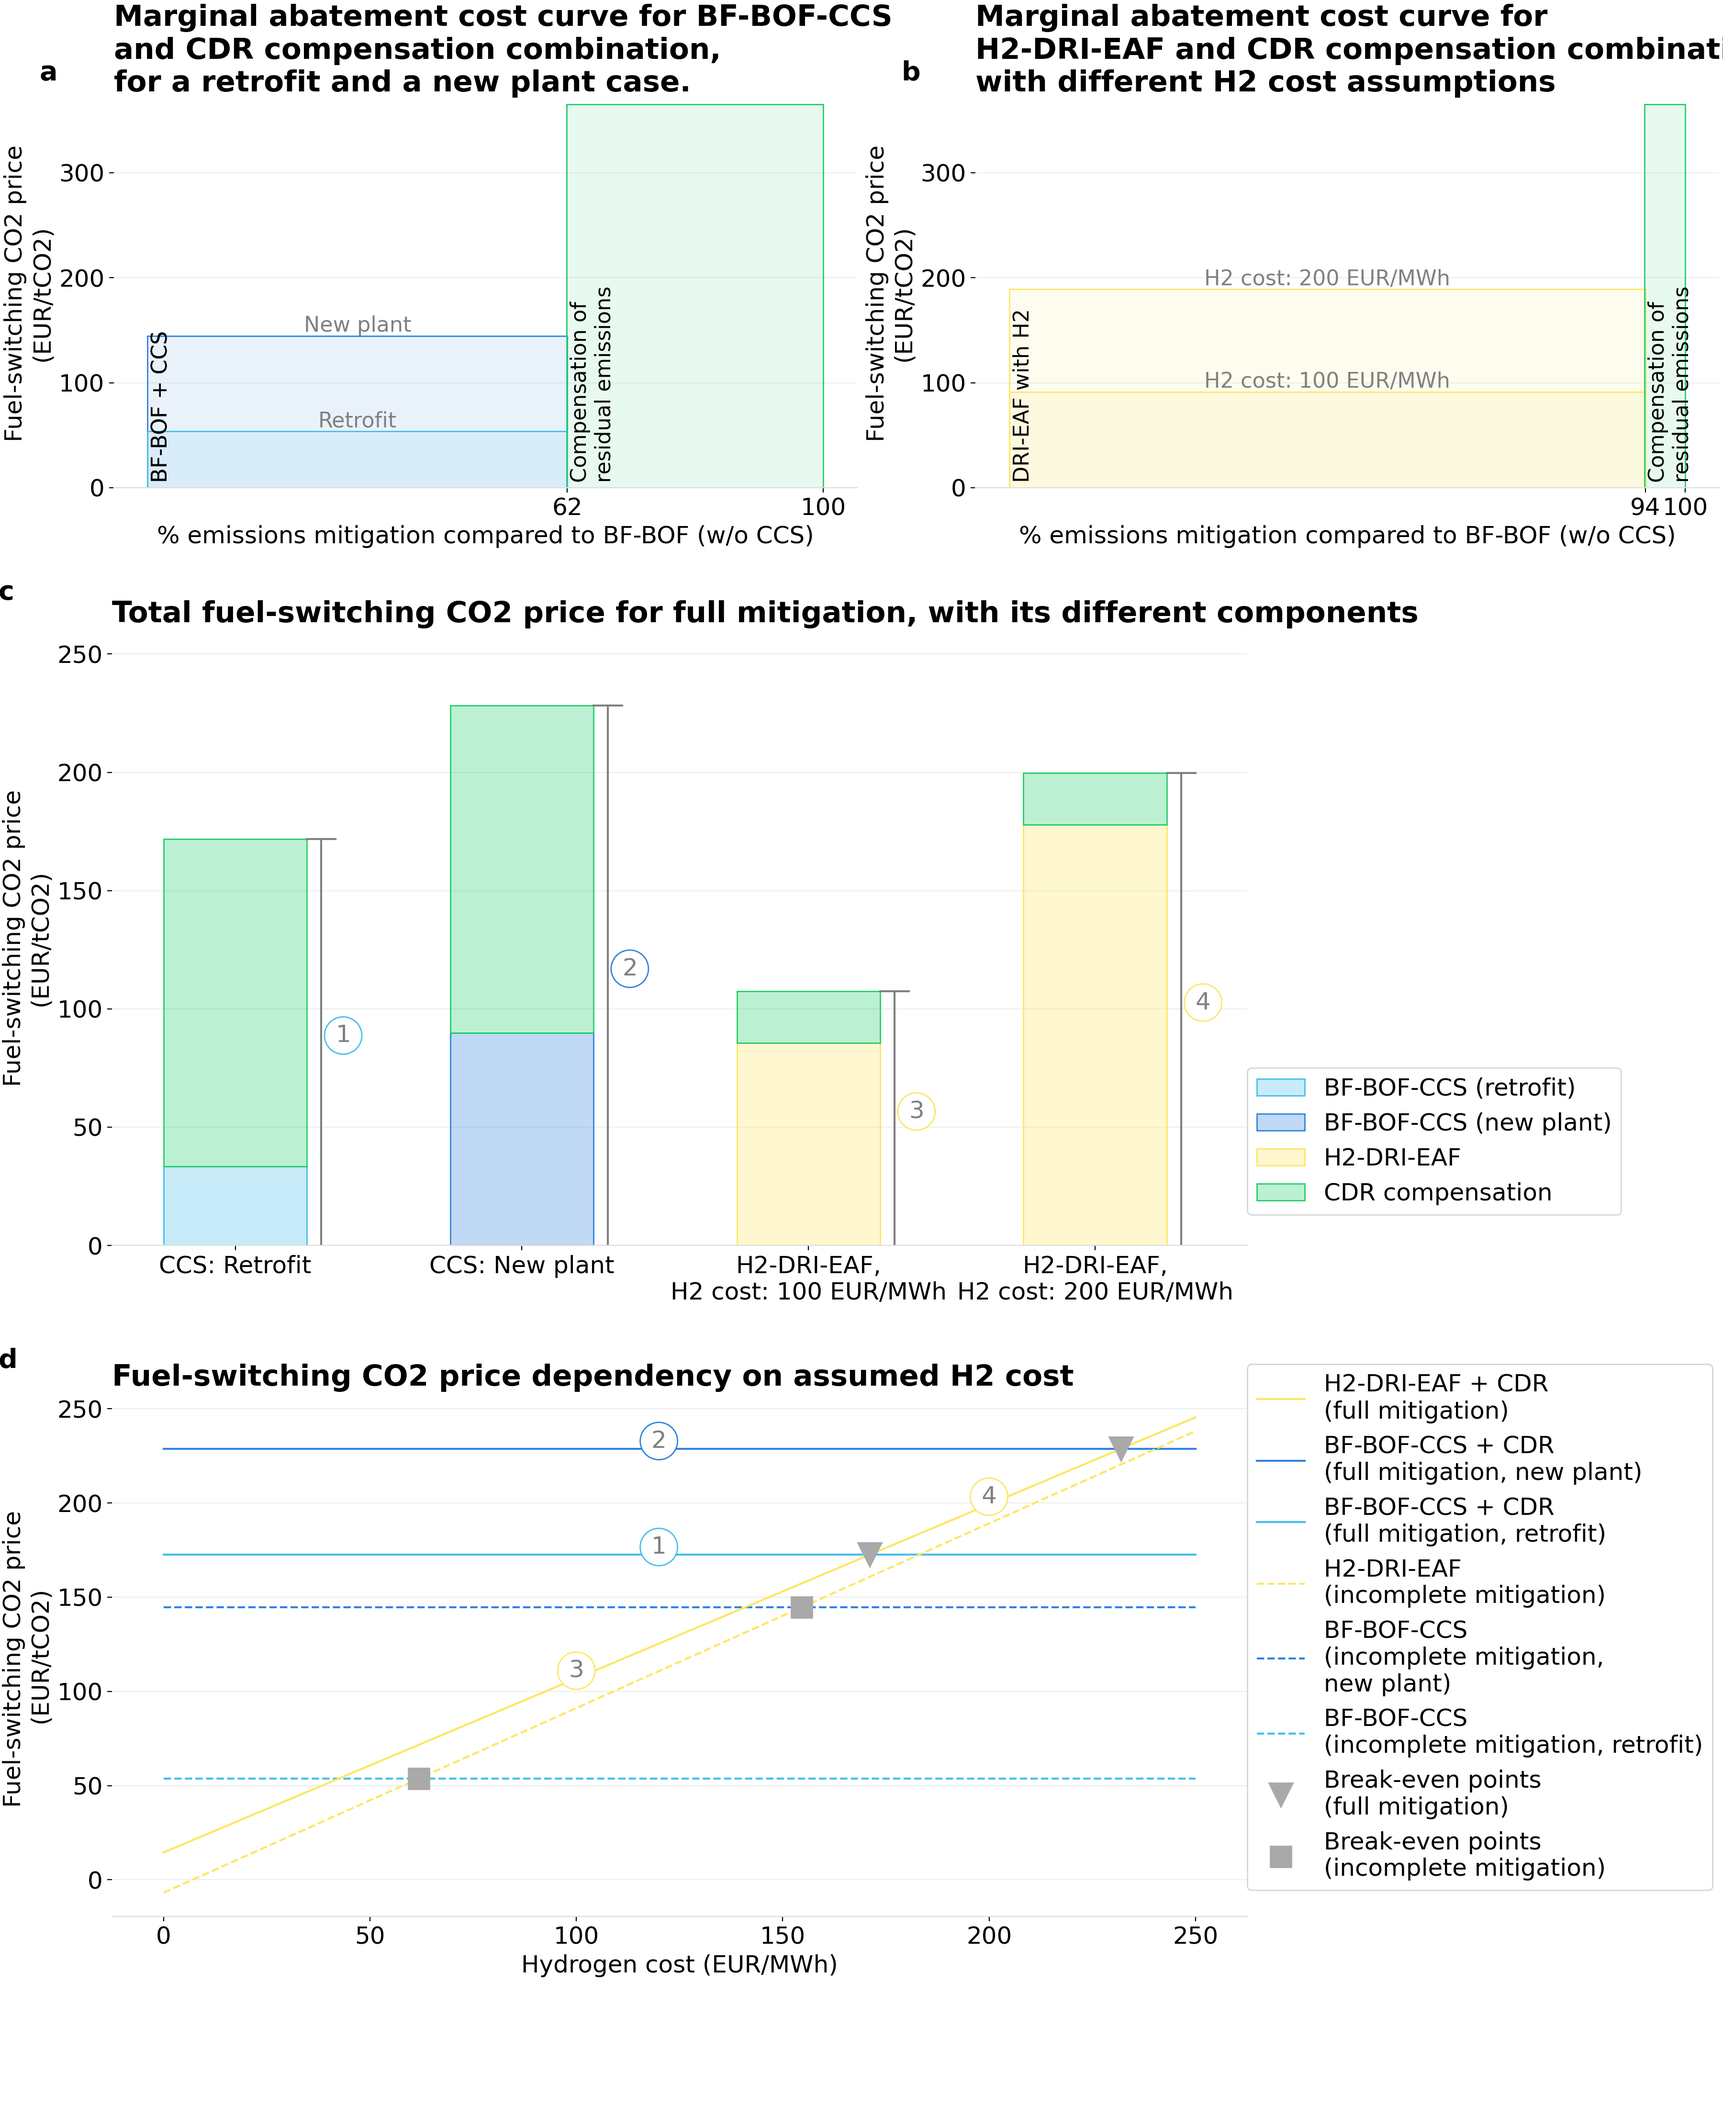
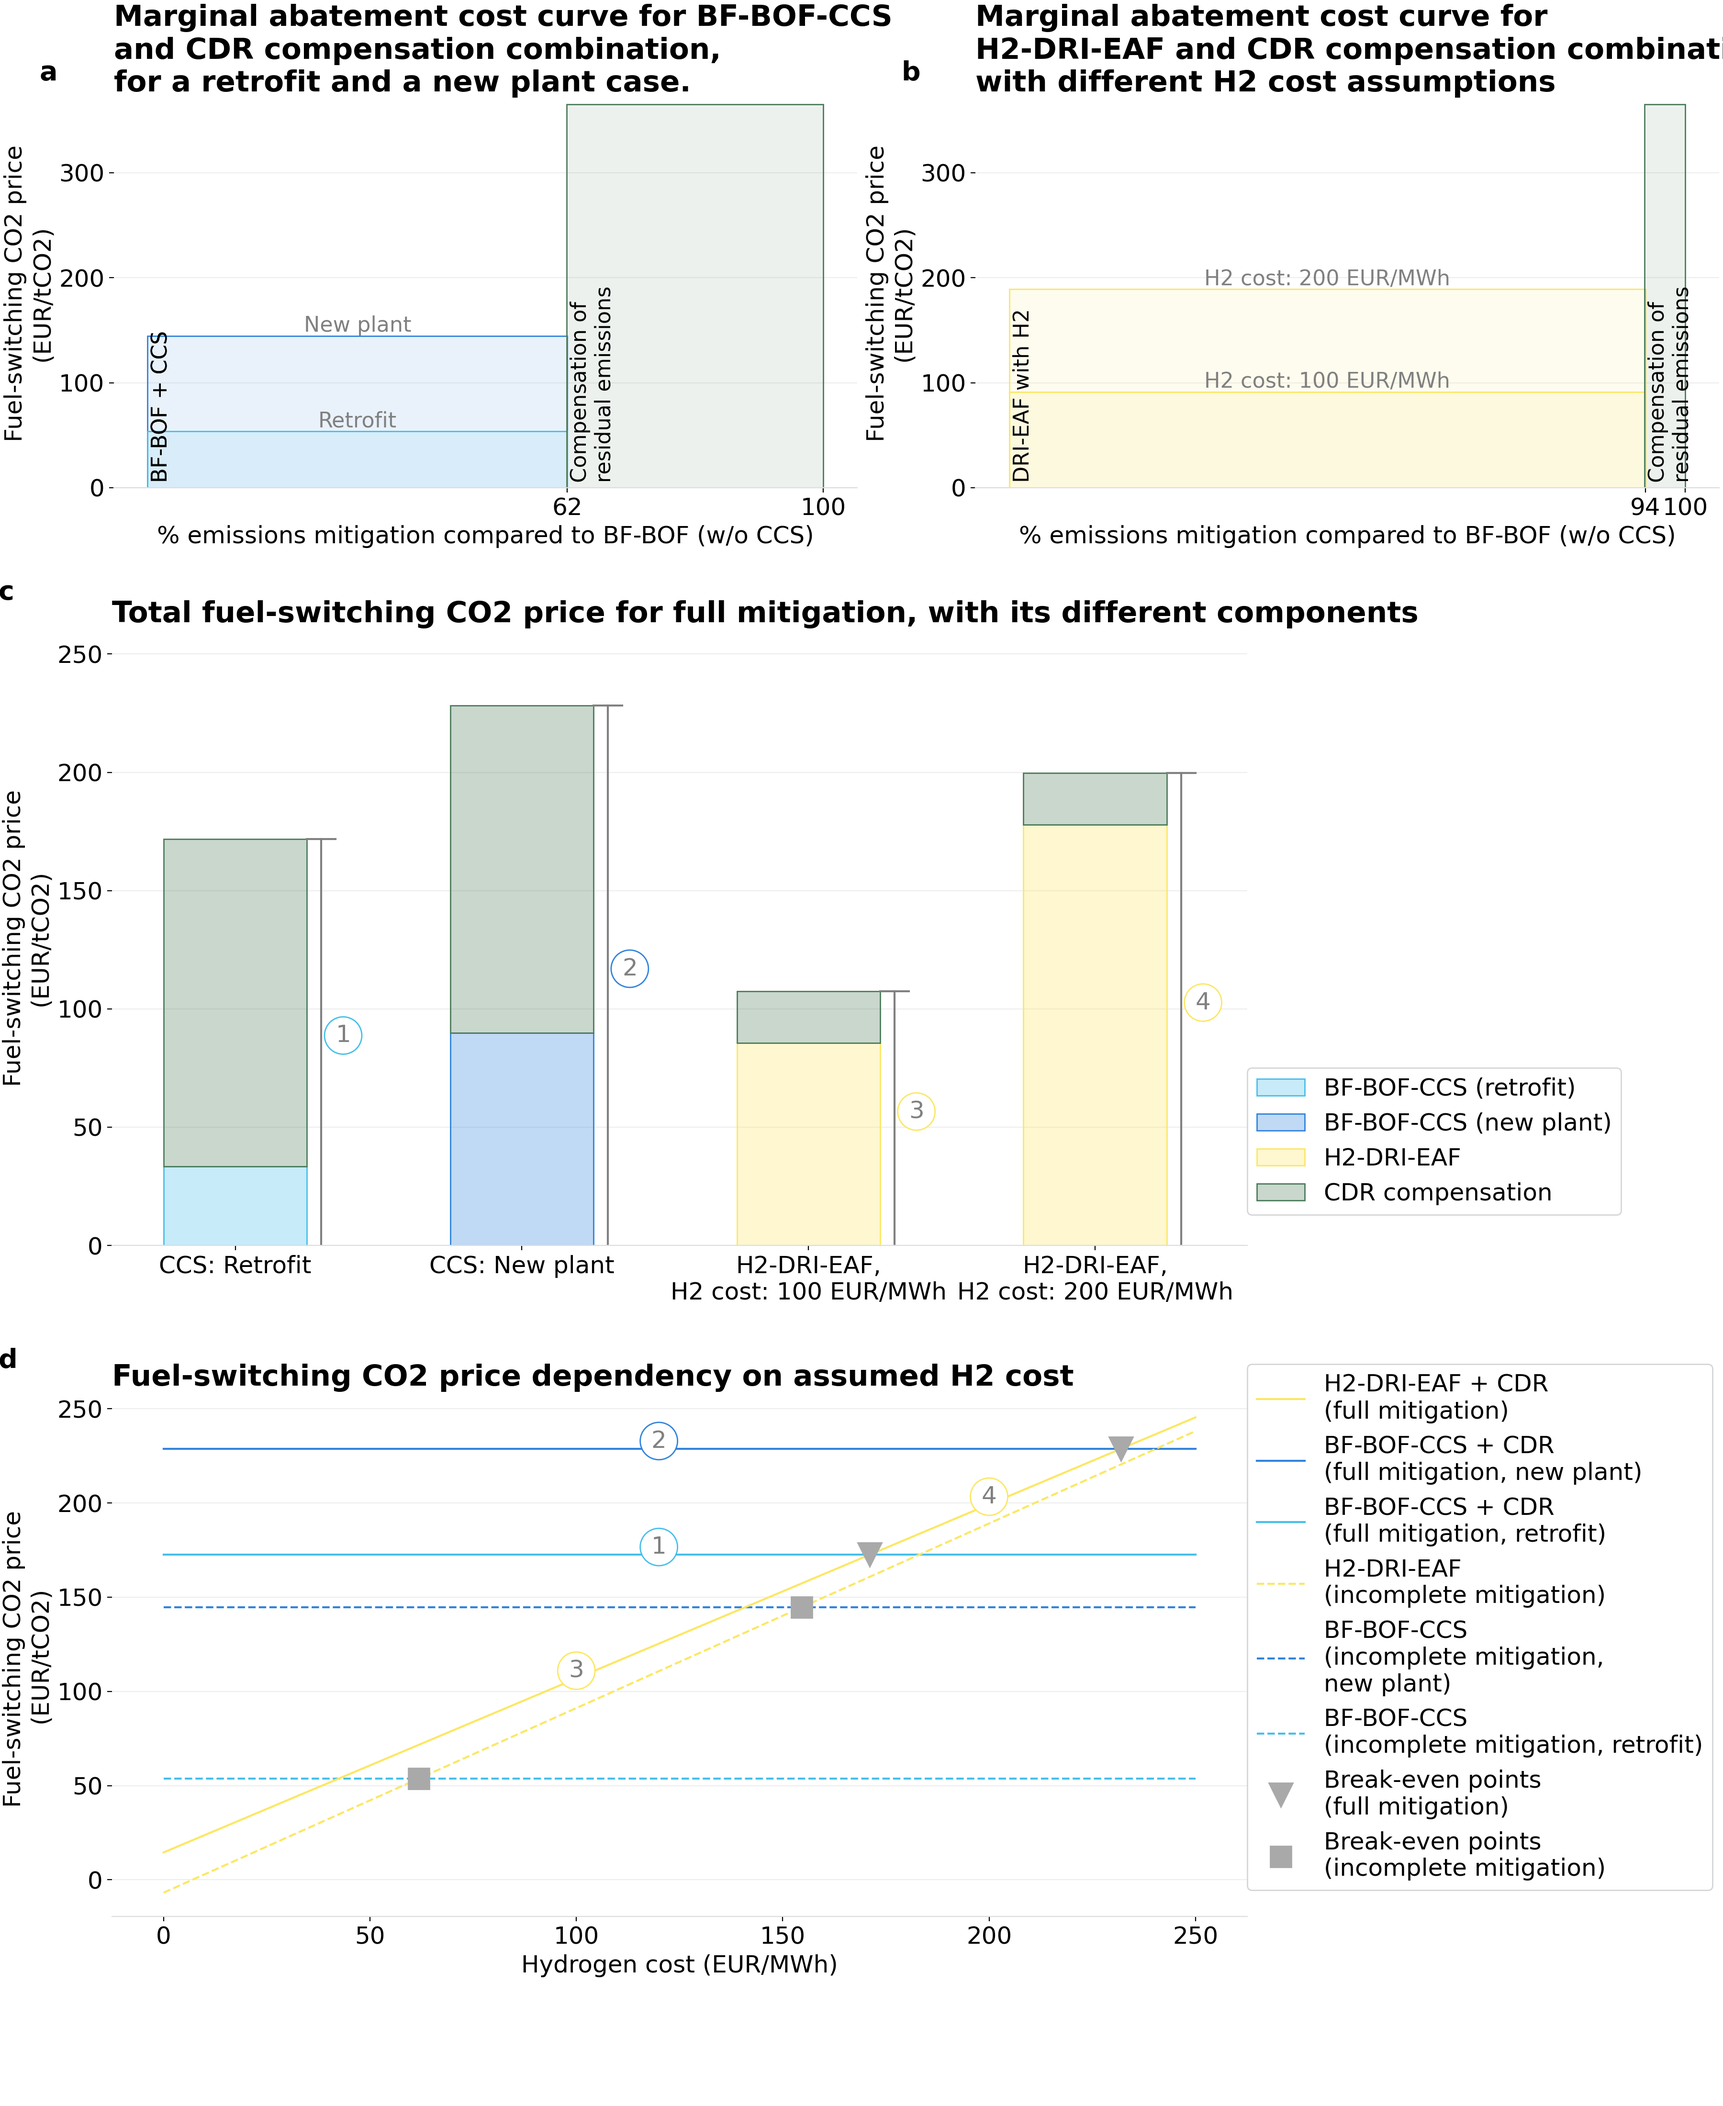
figure title correction and color palette modifications

diff --git a/src/plot/common.py b/src/plot/common.py
@@ -30,7 +30,10 @@ rename_sectors = {"cement": "Cement\n", "steel" : "Steel\n", "ship" : "Maritime\
 order_types = ["fossil", "h2","blueh2", "efuel", "ccu", "ccs", "comp" ]
 #colors
 color_dict = {"cement":"#EABE7C", "steel":"#8c6570","ship":"#0471A6","plane":"#61E8E1", "chem":"#AFB3F7"}
-color_dict_tech = {"fossil":"#31393C", "h2": "#FCE762", "blueh2":"#0818A8", "efuel": "#FEB380", "comp":"#23CE6B", "ccu":"#8E9AAF", "ccs":"#3083DC"}
+# color_dict_tech = {"fossil":"#31393C", "h2": "#FCE762", "blueh2":"#0818A8", "efuel": "#FEB380", "comp":"#23CE6B", "ccu":"#8E9AAF", "ccs":"#3083DC"}
+#below: color-blind friendly(er) palette
+color_dict_tech = {"fossil":"#31393C", "h2": "#FCE762", "blueh2":"#0818A8", "efuel": "#FF9446", "comp":"#4C7D5B", "ccu":"#A5A9AF", "ccs":"#3083DC"}
+
 sector_units = {"cement": "/t clinker", "steel" : "/t crude", "ship" : "/MWh", "plane" : "/PAX/km", "chem" : "/t olefin"}
 
 #make nicer looking barplots
@@ -127,20 +130,20 @@ def plot_large_panel_ccuattr(dfs):
         if df_filtered.loc[i, 'sector'] == 'cement' and df_filtered.loc[i, 'type'] == 'ccu':
             if df_filtered.loc[i, 'fscp'] < cementccs_fscp:
                 symbol = '✔'  # Green tick
-                color = 'green'
+                color = '#149821'
             else:
                 symbol = '✘'  # Red cross
-                color = 'red'
+                color = '#E203D0'
                 #ax.bar(bar.get_x()+ bar.get_width() / 2, bar.get_height(), bar.get_width(), color='white',alpha = 0.7, edgecolor='grey')
             ax.text(bar.get_x() + bar.get_width() / 2, bar.get_height() + 1,
                     symbol, ha='center', va='bottom', fontsize=14, color=color)
         elif df_filtered.loc[i, 'sector'] == 'plane' and df_filtered.loc[i, 'type'] == 'ccu':
             if df_filtered.loc[i, 'fscp'] < aviationcomp_fscp:
                 symbol = '✔'
-                color = 'green'
+                color = '#149821'
             else:
                 symbol = '✘'
-                color = 'red'
+                color = '#E203D0'
                 #ax.bar(bar.get_x()+ bar.get_width() / 2, bar.get_height(), bar.get_width(), color='white',alpha = 0.7, edgecolor='grey')
         # Place the symbol at the top of the bar
             ax.text(bar.get_x() + bar.get_width() / 2, bar.get_height() + 1,
@@ -156,9 +159,9 @@ def plot_large_panel_ccuattr(dfs):
     #secondary legend
 
     na_patch = Line2D([0], [0], marker=r'$\checkmark$', color='w', label='CCU is the cheapest abatement\noption',
-             markerfacecolor='green', markersize=10, markeredgewidth=0, markeredgecolor='green')
+             markerfacecolor='#149821', markersize=10, markeredgewidth=0, markeredgecolor='#149821')
     fossil_patch = Line2D([0], [0], marker=r'$\times$', color='w', label='CCU more costly than alternative\noption (CCS or CDR compensation)',
-             markerfacecolor='red', markersize=10, markeredgewidth=0, markeredgecolor='red')
+             markerfacecolor='#E203D0', markersize=10, markeredgewidth=0, markeredgecolor='#E203D0')
     leg2 = fig.legend(handles=[na_patch,fossil_patch], bbox_to_anchor=(0.1, 0.68),loc='lower left', fontsize = 12)
     ax.add_artist(leg2)
 

diff --git a/src/plot/hm.py b/src/plot/hm.py
@@ -293,7 +293,7 @@ def plot_sectoral_hm(path_to_data, rowvar_name, row_vars, row_titles, x_var = "c
 
 def plot_mainfig():
     row_vars = ["normal","ccu", "comp"]
-    row_titles = ["No conditions\n", "Fossil CCU: CO2 utilization\nrequires CO2 source\n", "Compatibility with climate\nneutrality (compensation\nof residual emissions)\n\n"]
+    row_titles = ["No conditions\n", "Fossil CCU: CO2 utilization\nrequires CO2 source\n", "Full climate neutrality\n(compensation only for\nresidual emissions)\n\n"]
     
     cmap_list = None
     plot_sectoral_hm(#path_to_data='./data/figfscp_rawdata.csv',
